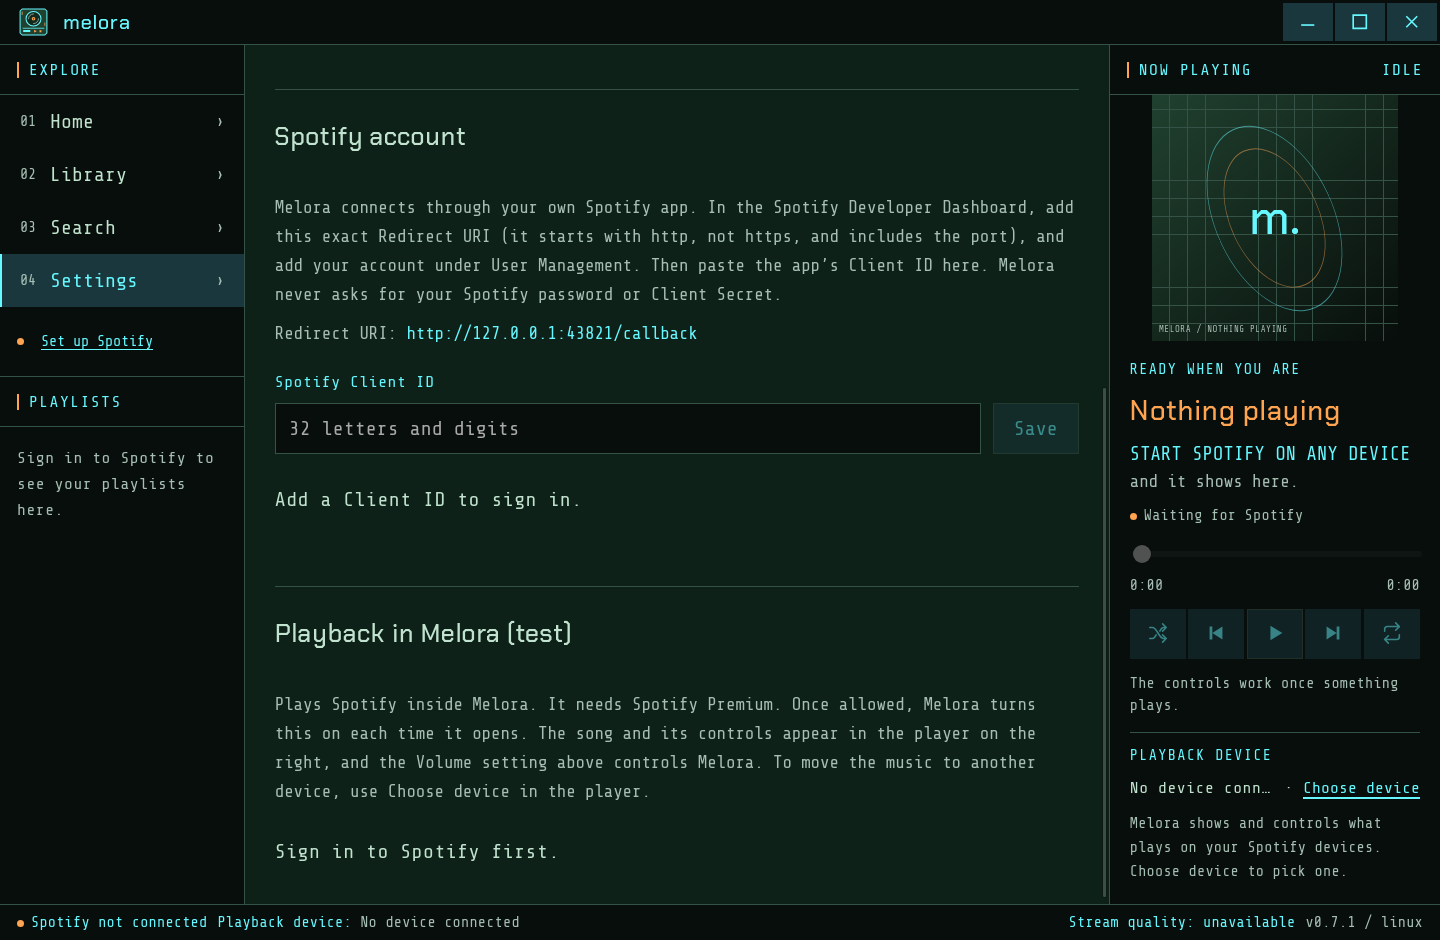
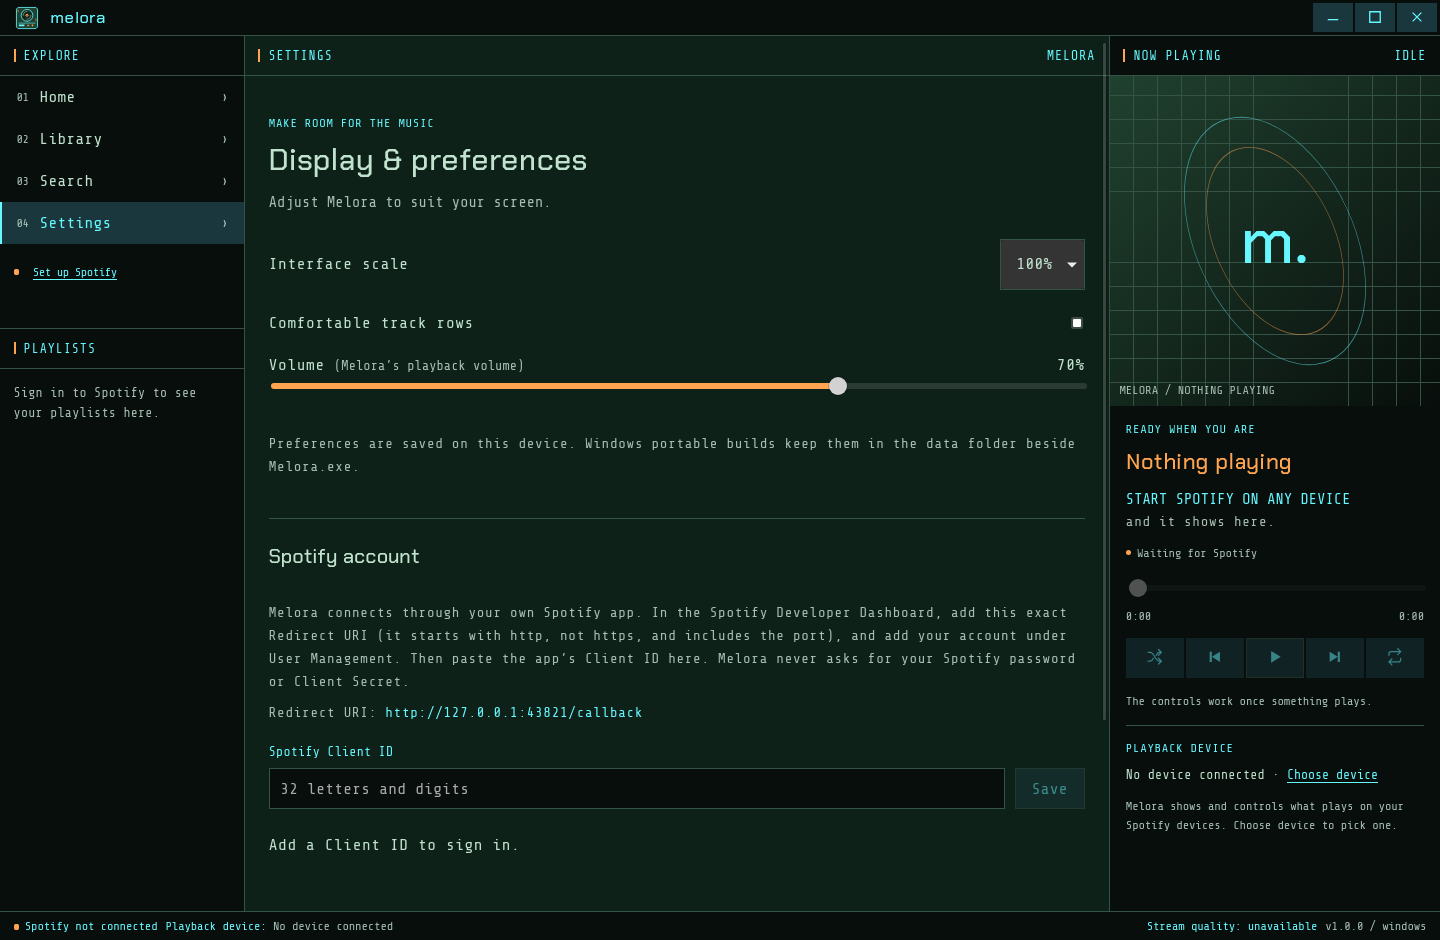
Show Melora signed in on the README and explain how to use it
The owner asked for screenshots of the real app and a guide, with none
of their own data. The new screenshots render the built frontend in
WebKitGTK with made-up music, artwork and a demo account standing in
for the native side; the stand-in is not in the repo. The welcome and
Settings screenshots are retaken the same way, so all of them show
v1.0.0. Every PNG is re-encoded without metadata.

The README now covers what you need, installing, setting up the
Spotify app step by step, using each part of Melora, keyboard and
media keys, where data is kept and the common errors, using Melora's
own messages.

diff --git a/README.md b/README.md
@@ -1,66 +1,146 @@
 # Melora
 
-Melora is a personal desktop music client built with Tauri 2, Rust, React and TypeScript. Windows and Linux are its targets; macOS is on hold (see [Platforms](#platforms)).
+Melora is a desktop music client for Spotify, for Windows and Linux. It shows your playlists, library, podcasts and search in one window, plays Spotify inside the app on Windows, and controls Spotify on your other devices.
 
-Until you sign in, Melora welcomes you with its own artwork and a way to set up Spotify; nothing in it is invented music. Sign in to Spotify in Settings to see your account and your own music. With Spotify Premium you can also play Spotify inside Melora (Settings → Playback in Melora, through Spotify's Web Playback SDK); while it plays, the player shows the real track, artwork and controls. The player can also show and control what's playing on your other Spotify devices (a phone, the Spotify app, a speaker), and **Choose device** moves the music between them and Melora. The **+** beside the track title adds it to your Liked Songs or removes it. While a podcast plays, the buttons beside Play skip back or forward 15 seconds. Your keyboard's media keys (play/pause, next, previous) and the system's media controls (Windows' media overlay, or the Linux desktop's through MPRIS) control whatever the player shows, in Melora or on another device; in a podcast, next and previous skip 15 seconds there too. Once you allow it, the sidebar lists your Spotify playlists and Liked Songs: choose one to see its tracks, and select a title to play it (Spotify only shows the tracks of playlists you own or collaborate on). The sidebar also lists your saved **Albums**, **Podcasts** and **Your Episodes**: open an album or podcast to see its tracks or episodes, and save or remove it with the **+** beside its name. Every song row has a **+** for Liked Songs too. Signed in, **Search** finds songs, artists, albums, playlists, podcasts and episodes on Spotify as you type; select one to play it (a podcast opens), or **See all** for more of one kind. Long lists stay quick: only the rows on screen are drawn. **Home** shows what's playing, what you played recently, your playlists, saved albums and podcasts, and your devices. The sidebar's **Recently Played** lists your last 50 tracks, and **Queue** shows what plays next; Spotify doesn't let other apps reorder the queue. Right-click a song or episode (or press the Menu key or Shift+F10) to add it to the queue or to one of your playlists. **+ New** in the sidebar creates a private playlist. In a playlist you own or collaborate on, drag a song (or press Alt+↑ or Alt+↓) to move it, or remove it from its menu; the change is made on Spotify too. You can also put the sidebar's playlists in your own order by dragging them or with Alt+↑ and Alt+↓; Melora keeps that order on this device and leaves Spotify's order as it is (**Use Spotify’s order** goes back). Melora is unofficial and is not affiliated with, endorsed by or sponsored by Spotify.
+Melora is unofficial. It is not affiliated with, endorsed by or sponsored by Spotify.
+
+![Melora's Home view: what's playing, recently played tracks and your playlists, with the player on the right](docs/screenshots/home.png)
 
 ## Screenshots
 
-![Melora signed out: the welcome with Melora's own artwork, and the idle player](docs/screenshots/welcome.png)
+The screenshots use made-up music, artwork and a demo account, so they contain nobody's real data.
 
-![Settings, where you add your own Spotify Client ID and sign in](docs/screenshots/settings.png)
+|                                                                                              |                                                                                         |
+| -------------------------------------------------------------------------------------------- | --------------------------------------------------------------------------------------- |
+| ![A playlist open, with its tracks and the + for Liked Songs](docs/screenshots/playlist.png) | ![Search results for an artist: songs, then artists](docs/screenshots/search.png)       |
+| A playlist and its tracks                                                                    | Search                                                                                  |
+| ![A podcast's episodes with their release dates and lengths](docs/screenshots/podcast.png)   | ![The device list open over Home, with the volume slider](docs/screenshots/devices.png) |
+| A podcast's episodes                                                                         | Choosing a device                                                                       |
 
-Both show Melora on Linux before signing in, so they contain no account data. Signed in, your playlists, library, search results and the music playing on your devices fill the same layout.
+Before you sign in, Melora shows its welcome and points you to Settings:
 
-## Run in a browser
+|                                                                       |                                                                                    |
+| --------------------------------------------------------------------- | ---------------------------------------------------------------------------------- |
+| ![The welcome screen before signing in](docs/screenshots/welcome.png) | ![Settings, where you paste your Spotify Client ID](docs/screenshots/settings.png) |
+| Welcome                                                               | Settings                                                                           |
 
-Use Node 22.22.1 or later:
+## What you need
+
+- 64-bit Windows with the Microsoft Edge WebView2 Runtime, which current Windows versions already have. Or Linux: Fedora, Ubuntu 22.04 or later, Debian 12 or later, or another x86_64 distribution through the AppImage.
+- A Spotify account. Playing music inside Melora needs Spotify Premium.
+- A free Spotify developer app of your own, which takes a few minutes to set up (see below). Melora has no shared app or server.
+
+## Install
+
+Melora is built from source; see [DEVELOPMENT.md](DEVELOPMENT.md) for the build commands.
+
+**Windows.** The build makes a portable ZIP, `Melora-<version>-windows-x64.zip`. Extract the whole ZIP to a folder you can write to, such as one in your Documents, and run `Melora.exe`. There is no installer, and the builds are unsigned.
+
+**Linux.** The build makes these packages:
+
+| Package                                           | For                                                | Install                                            |
+| ------------------------------------------------- | -------------------------------------------------- | -------------------------------------------------- |
+| `Melora-<version>-1.x86_64.rpm` or `.aarch64.rpm` | Fedora (Asahi Remix on Apple silicon uses aarch64) | `sudo dnf install ./Melora-<version>-1.x86_64.rpm` |
+| `Melora_<version>_amd64.deb` or `_arm64.deb`      | Ubuntu 22.04 or later, Debian 12 or later          | `sudo apt install ./Melora_<version>_amd64.deb`    |
+| `Melora_<version>_amd64.AppImage`                 | other x86_64 distributions                         | `chmod +x` it, then run it                         |
+
+The packages add Melora to your app menu and use the system's WebKitGTK. The AppImage carries its own copy, so use a package where there is one. Melora keeps your Spotify sign-in in the desktop's keyring (GNOME Keyring or KWallet), which must be running. To uninstall, run `sudo dnf remove melora` or `sudo apt remove melora`.
+
+## Set up Spotify (once)
+
+Spotify only lets apps sign in through a developer app that someone has registered. Melora uses yours, so it never needs a password, a Client Secret or a server.
+
+1. Go to the [Spotify Developer Dashboard](https://developer.spotify.com/dashboard), sign in and choose **Create app**. Give it any name and description.
+2. Under **Redirect URIs**, add exactly `http://127.0.0.1:43821/callback` and save. It starts with `http`, not `https`, and includes the port. The Dashboard may show a "not secure" notice for it, which is expected for this local address.
+3. Tick **Web API** and **Web Playback SDK** for the APIs the app uses.
+4. Open the app's **User Management** and add every Spotify account that will use Melora, including your own. Spotify refuses accounts that aren't listed.
+5. Copy the app's **Client ID**.
+6. In Melora, open **Settings**, paste the Client ID under **Spotify account**, choose **Save**, then **Sign in with Spotify**. Your browser opens Spotify's approval page. Approve it and go back to Melora.
+
+The first time you use a feature, such as your playlists, the player or Liked Songs, Melora asks Spotify for that one permission. Your browser opens again to approve it, and Melora keeps working in the meantime. **Cancel sign-in** in Settings stops waiting.
+
+Spotify's Development Mode applies to these apps. The developer app's owner needs Spotify Premium, at most five accounts can use it, and a sign-in lasts up to six months before you sign in again.
+
+## Using Melora
+
+The window has three columns. On the left are the main sections (Home, Library, Search and Settings) and the sidebar with your library and playlists. The middle shows what you choose. On the right is the player.
+
+### Play music
+
+- **Select a title** in any list to play it. A podcast in a list opens to show its episodes.
+- **In Melora (Windows, Premium).** Once you allow playback, Melora becomes a Spotify device each time it opens, so it appears in your device lists. Settings, under **Playback in Melora**, shows whether it's ready and why not.
+- **On another device.** Start Spotify on your phone, computer or speaker, and Melora's player shows what's playing there and controls it. On Linux this is how Melora plays, because WebKitGTK can't play Spotify's protected audio.
+- **Choose device** under the player moves the music between Melora and your other devices. Its volume slider sets the volume of the device that's playing.
+- The player has shuffle, previous, play or pause, next and repeat, and a bar to move through the track. In a podcast, the buttons beside Play skip back and forward 15 seconds.
+- The **+** beside the track title adds it to your Liked Songs, or removes it.
+
+### Your library
+
+- **Liked Songs**, **Albums**, **Podcasts**, **Your Episodes**, **Recently Played** (your last 50 tracks) and **Queue** (what plays next) are at the top of the sidebar, followed by your playlists.
+- Open an album or podcast to see its tracks or episodes. The **+** beside its name saves it to your library or removes it. Every song row has a **+** for Liked Songs too.
+- **Home** shows what's playing, what you played recently, your playlists, albums and podcasts, and your devices.
+- Spotify only shows the tracks of playlists you own or collaborate on. You can still play the others, or open them in Spotify.
+
+### Search
+
+Open **Search** and type. Results come in as you type, in groups: songs, artists, albums, playlists, podcasts and episodes. **See all** shows more of one group.
+
+### Playlists
+
+- **+ New** in the sidebar creates a private playlist.
+- Right-click a song or episode to add it to the queue or to one of your playlists.
+- In a playlist you own or collaborate on, drag a song to move it, or remove it from its right-click menu. The change is made on Spotify too. If Spotify refuses it, Melora puts the list back and says why.
+- Drag playlists in the sidebar to put them in your own order. Melora keeps that order on this computer and leaves Spotify's order alone. **Use Spotify's order** in a playlist's right-click menu goes back.
+
+### Keyboard and media keys
+
+| Keys                                     | What they do                                                                                                   |
+| ---------------------------------------- | -------------------------------------------------------------------------------------------------------------- |
+| Menu key or Shift+F10                    | Opens the right-click menu of the selected row                                                                 |
+| Alt+↑ and Alt+↓                          | Move the selected song in a playlist, or the selected playlist in the sidebar                                  |
+| Esc                                      | Closes a menu, the device list or the new playlist form                                                        |
+| Play/pause, next and previous media keys | Control what the player shows, in Melora or on another device. In a podcast, next and previous skip 15 seconds |
+
+The system's media controls also work: the media overlay on Windows, and the desktop's media controls on Linux (through MPRIS).
+
+### Settings
+
+- **Interface scale** makes everything larger, from 100% to 200%.
+- **Comfortable track rows** gives lists more space.
+- **Volume** is Melora's own playback volume.
+- **Spotify account** is where you set the Client ID, sign in and sign out.
+
+## Your data
+
+- Melora talks only to Spotify. It has no analytics, ads, tracking or server of its own. Its fonts and icons are inside the app; artwork comes from Spotify.
+- Your Spotify sign-in is kept in the system's credential store: Windows Credential Manager, or the keyring on Linux. Melora never stores your password and never asks for it.
+- On Windows, settings and your Client ID are saved in the `data` folder beside `Melora.exe`. Moving the folder to another computer means signing in again. On Linux they are in `~/.local/share/app.melora.desktop/`.
+- Signing out in Settings removes the sign-in from the credential store.
+
+## If something goes wrong
+
+- **"Spotify refused access."** Add the account to the developer app's **User Management** (step 4 above).
+- **Spotify shows an error about the redirect URI.** The Redirect URI in the Dashboard must be exactly `http://127.0.0.1:43821/callback`.
+- **Melora can't play music itself.** It needs Spotify Premium and Windows. On Linux, start Spotify on another device and Melora controls it.
+- **Linux: Melora signs you out every time it closes.** The keyring isn't running. Start GNOME Keyring or KWallet and sign in again.
+
+## Platforms
+
+- **Windows** is the main platform. Melora plays Spotify itself there, or controls another device.
+- **Linux** packages are for x86_64 and aarch64, tested on Fedora first. Melora controls Spotify on another device. Spotify has no Linux app for aarch64, so on Apple silicon (Asahi) Melora controls a phone, a speaker or another computer.
+- **macOS** is on hold. A macOS build needs a Mac to build on, and macOS's WebView can't play Spotify's protected audio either, so it would only control other devices.
+
+## Build it yourself
+
+To try the interface in a browser (signed out, nothing to sign in to), use Node 22.22.1 or later:
 
 ```sh
 npm ci
 npm run dev
 ```
 
-Open the local address printed by Vite. Browser settings last for the current session. The native app saves preferences on the device.
-
-For native development and portable builds, see [DEVELOPMENT.md](DEVELOPMENT.md).
-
-## Windows (portable)
-
-The build command produces `artifacts/Melora-<version>-windows-x64.zip`. Extract the complete ZIP to a writable folder and launch `Melora.exe`. No installer is required. The system Microsoft Edge WebView2 Runtime is required and is not bundled. Builds are unsigned.
-
-Preferences are saved in `data/preferences.json` beside the executable, and your Spotify Client ID in `data/spotify.json`. An unwritable folder produces a visible error. The Spotify refresh token is stored only in Windows Credential Manager (macOS Keychain or Linux Secret Service elsewhere); moving the portable folder to another computer requires signing in again.
-
-Compilation and runtime verification are separate: each Windows build is tested by hand on Windows.
-
-## Linux
-
-`npm run build:linux` produces packages in `artifacts/linux/` (see [DEVELOPMENT.md](DEVELOPMENT.md#linux-packages)):
-
-| Package                                                           | For                                                | Install                                            |
-| ----------------------------------------------------------------- | -------------------------------------------------- | -------------------------------------------------- |
-| `Melora-<version>-1.x86_64.rpm`, `Melora-<version>-1.aarch64.rpm` | Fedora (Asahi Remix on Apple silicon uses aarch64) | `sudo dnf install ./Melora-<version>-1.x86_64.rpm` |
-| `Melora_<version>_amd64.deb`, `Melora_<version>_arm64.deb`        | Ubuntu 22.04 or later, Debian 12 or later          | `sudo apt install ./Melora_<version>_amd64.deb`    |
-| `Melora_<version>_amd64.AppImage`                                 | other x86_64 distributions                         | `chmod +x` it, then run it                         |
-
-The packages install `melora` with a desktop entry and icons, and use the system's WebKitGTK; the AppImage carries its own (from Ubuntu 22.04, with their copyright notices inside), so prefer a package where there is one. Settings live in `~/.local/share/app.melora.desktop/`, and the Spotify refresh token in the desktop's Secret Service (GNOME Keyring or KWallet), which must be running. Packages are unsigned. Uninstall with `sudo dnf remove melora` or `sudo apt remove melora`.
-
-## Platforms
-
-- **Windows** is the main target, as the portable ZIP above. Melora can play Spotify itself there, or control another device.
-- **Linux** packages are above (Fedora first; x86_64 and aarch64). WebKitGTK can't play Spotify's protected audio, so on Linux Melora controls Spotify playing on another device: the Spotify app, a phone or a speaker. Spotify has no Linux app for aarch64, so on Apple silicon (Asahi) Melora controls a phone, a speaker or another computer.
-- **macOS is on hold, to revisit later.** A macOS build has to be made on a Mac with Xcode's Command Line Tools; it can't be built on Linux or Windows. Running a build you made yourself on your own Mac needs no paid Apple Developer account. Giving it to other people without macOS's "unidentified developer" warning does (Developer ID signing and notarisation, $99 a year); the App Store isn't needed either way. macOS's WebView has no Widevine, so Melora would probably control other devices only, as on Linux. To pick it up again: build on a Mac (`npm run tauri build`), test sign-in, device control and media keys, then decide about the developer account.
-
-## Spotify configuration
-
-Melora uses your own Spotify app (bring your own Client ID) and Authorization Code with PKCE. It never uses or asks for a Client Secret or your Spotify password.
-
-1. In the [Spotify Developer Dashboard](https://developer.spotify.com/dashboard), create an app. Add the Redirect URI `http://127.0.0.1:43821/callback` exactly. It starts with `http`, which Spotify permits for loopback addresses (the Dashboard shows a generic "not secure" notice), and it must include the port: the Dashboard refuses the port-less form. Melora listens on that port only while you sign in, and Settings shows the exact URI. Tick **Web API** and **Web Playback SDK**.
-2. Under **User Management**, add every Spotify account that will sign in, including your own. Spotify answers other accounts with "forbidden" errors.
-3. In Melora, open **Settings → Spotify account**, paste the app's Client ID, save, and choose **Sign in with Spotify**. Your browser opens Spotify's approval page.
-
-Melora requests only the scopes the current features need: your profile at sign-in, then more the first time you use playback, your devices, Liked Songs, your playlists, your podcasts or what you played recently. Access tokens stay in the native process memory; nothing is sent anywhere except Spotify. The intended mode is personal, non-commercial Spotify Development Mode, which needs the app owner to have Spotify Premium, allows up to five users and expires sign-ins after six months.
+For the desktop app, the Windows ZIP and the Linux packages, see [DEVELOPMENT.md](DEVELOPMENT.md).
 
 ## Licences
 
-Melora's own source is licensed under the [MIT License](LICENSE). Bundled fonts keep their original licences, and the Spotify logo and Like icons are Spotify's trademarks, used only as Spotify's guidelines require and not covered by Melora's licence; see [THIRD_PARTY_NOTICES.md](THIRD_PARTY_NOTICES.md). Dependencies keep their own licences.
+Melora's own source is under the [MIT License](LICENSE). The bundled fonts keep their own licences, and the Spotify logo and Like icons are Spotify's trademarks, used as Spotify's guidelines require and not covered by Melora's licence. See [THIRD_PARTY_NOTICES.md](THIRD_PARTY_NOTICES.md). Dependencies keep their own licences.
